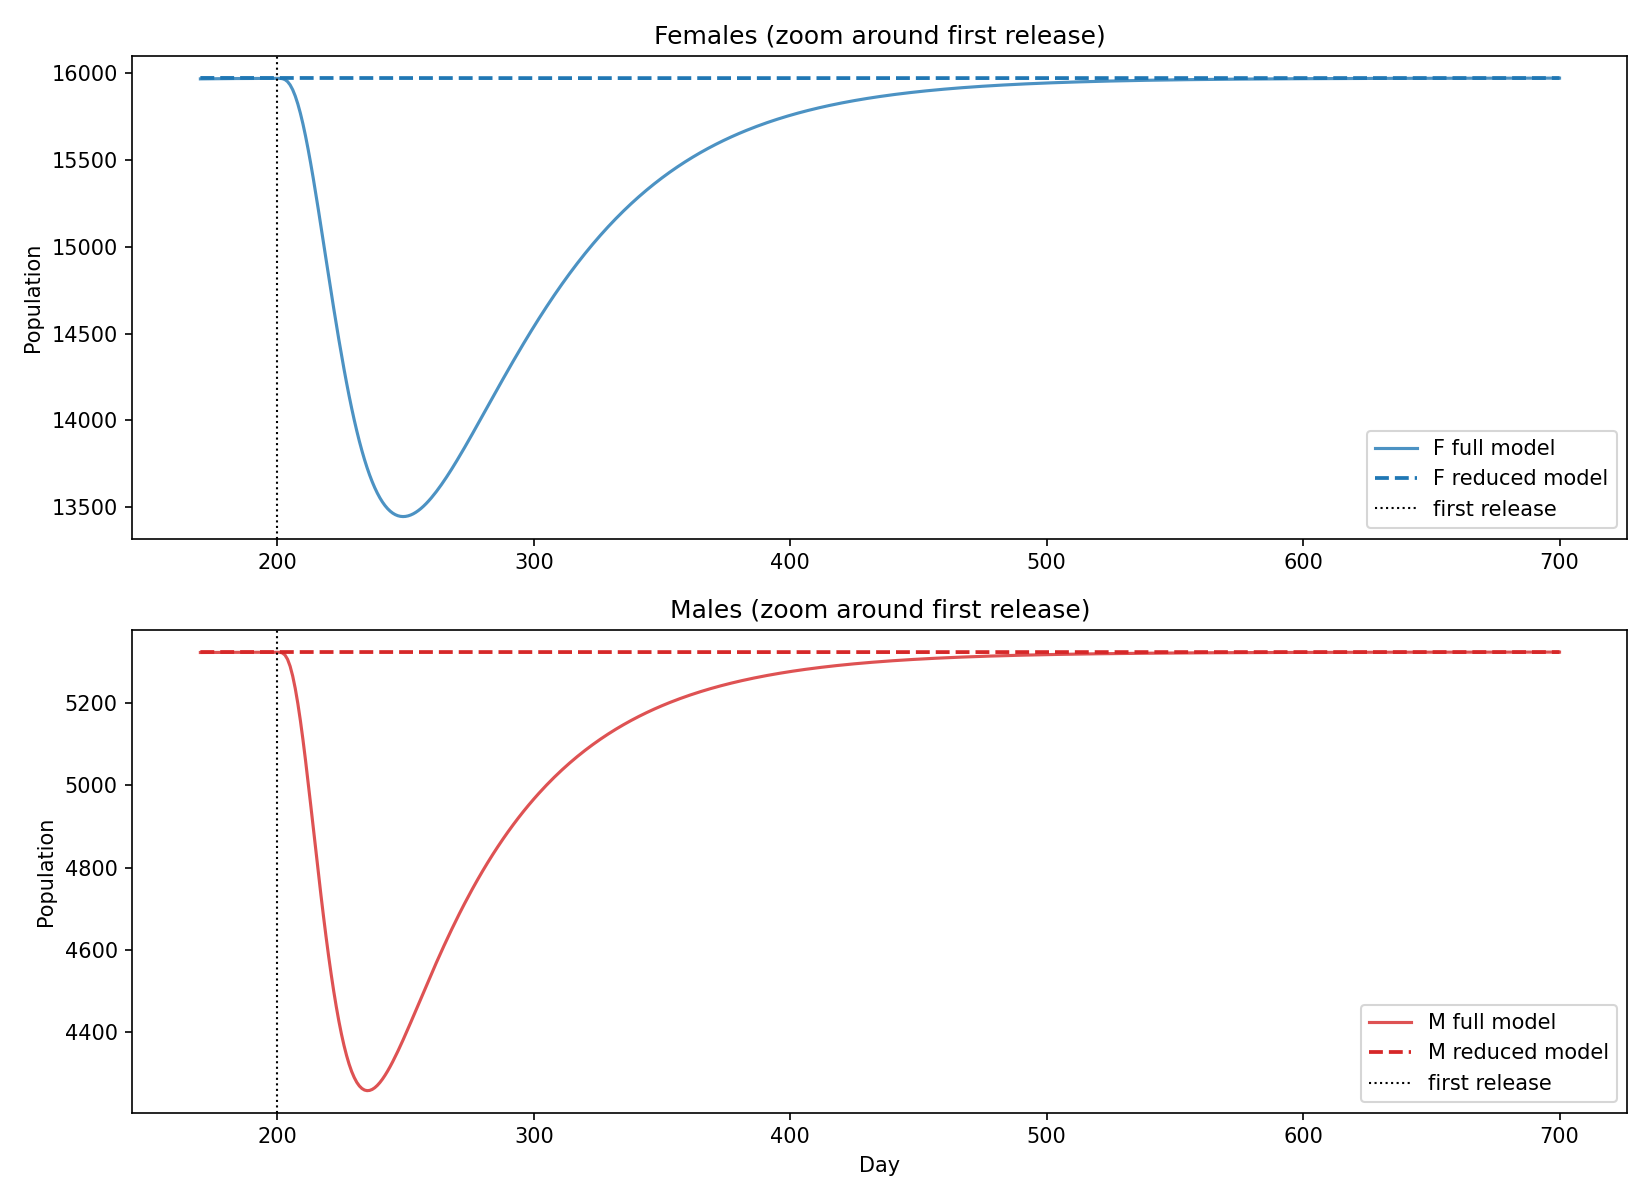
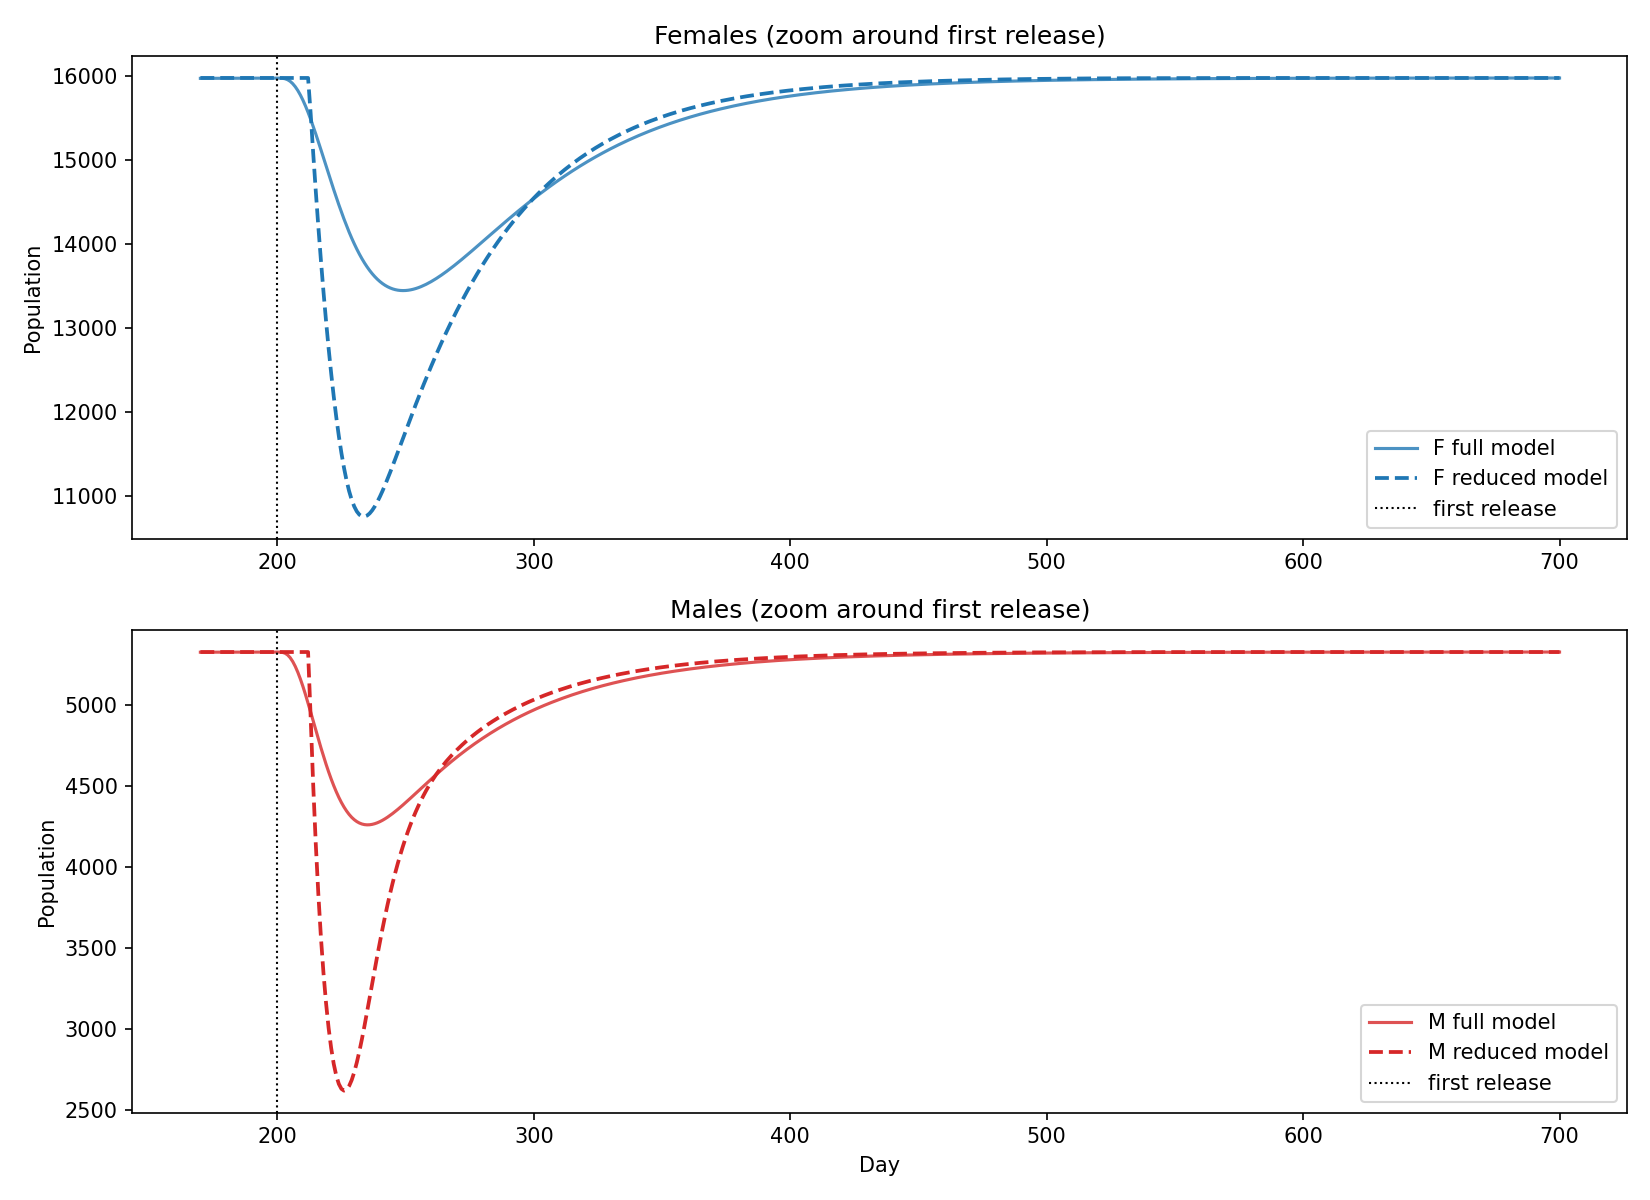
Works now

diff --git a/mosquisim/models.py b/mosquisim/models.py
@@ -125,7 +125,7 @@ def pre_release_adult_input(t, transition_time, initial_state, params):
 def det_model_7(t, y, birth, n_egg, deltaA, death_egg, tel, tlp, transi,
                 death_L, death_P, c, mu,
                 t_data, precip_data, H,
-                release_times, rho,          # ← release schedule
+                release_times, rho,          # release schedule
                 type=1, Sterile = 0):
 
     E, L, P, F, Ff, Fs, M = y
@@ -210,13 +210,17 @@ def det_model_2(t, y, birth, n_egg, deltaA, death_egg, tel, tlp, transi_mod,
                 reltype=1, Sterile = 0):
 
     F, M = y
+    F = max(F, 0.0)   #  guard against small negative drift from LSODA
+    M = max(M, 0.0)
+    print(t)
 
+    # ── Ms ────────────────────────────────────────────────────────
     if Sterile == 1:
         Ms = rho if np.any(release_times) and t >= release_times[0] else 0.0
     else:
-        Ms = Ms_fun(t, release_times, rho, deltaA)   # pure function call
+        Ms = Ms_fun(t, release_times, rho, deltaA)
 
-
+    # ── Competition ───────────────────────────────────────────────
     if reltype == 1:
         precip = np.interp(t, t_data, precip_data)
         comp = competition1(1/c, 1/(c * 50), precip)
@@ -226,56 +230,78 @@ def det_model_2(t, y, birth, n_egg, deltaA, death_egg, tel, tlp, transi_mod,
     else:
         comp = c
 
-    probaM = M / (M + Ms) if M > 0 else 0.0
-    
+    # ── Mating ────────────────────────────────────────────────────
+    if M > 0:
+        probaM  = M  / (M + Ms)
+    else:
+        probaM = 0.0
+
     matf   = allee(M, Ms) * probaM
 
-    birth_mod  = birth * tel * n_egg / (tel + death_egg)
-    #birth_rate = (-(death_L + tlp) + np.sqrt(
-    #                (death_L + tlp)**2 + matf * F * 4 * comp * birth_mod / (allee(M, Ms) + deltaA)
-    #             )) / (2 * comp)
+    # ── Birth rate (quasi-steady-state larvae) ────────────────────
+    birth_mod = birth * tel * n_egg / (tel + death_egg)
 
-    birth_rate = (-(death_L + tlp) + np.sqrt(
-                    (death_L + tlp)**2 + matf * F * 4 * comp * birth_mod / (1 + deltaA)
-                 )) / (2 * comp)
+    discriminant = (death_L + tlp)**2 + matf * F * 4 * comp * birth_mod / (1 + deltaA)
+    discriminant = max(discriminant, 0.0)   # numerical safety
+
+    birth_rate = (-(death_L + tlp) + np.sqrt(discriminant)) / (2 * comp)
+
     shared = birth_rate * transi_mod / 2
 
-    dF = shared  - deltaA * F
+    dF = shared - deltaA * F
     dM = shared - deltaA * 3 * M
 
     return np.array([dF, dM])
 
-
 def sim_2(pop_init, days, birth, deltaA, deltaE, transi_el, transi_lp, transi_mod,
           death_L, c,
-          release_times = None, rho=0.0,
-          n_egg=64, precip_data = precip_data, H = hum_data, reltype = 1, Sterile = 0):
-    """
-    pop_init               : length 2 (F, M) or 3 (Ms0 ignored — use releases)
-    pre_release_pop_init_7d: optional 7D initial state used to bootstrap the
-                             reduced model at the first release time
-    """
+          release_times=None, rho=0.0,
+          n_egg=64, precip_data=precip_data, H=hum_data, reltype=1, Sterile=0):
+
     if release_times is None:
         release_times = np.array([])
         rho = 0.0
-        print("No releases")
     else:
         release_times = np.asarray(release_times, dtype=float)
+        release_times = release_times[(release_times > days[0]) & (release_times < days[-1])]
 
     y0 = np.asarray(pop_init[:2], dtype=float)
 
-    sol = solve_ivp(
-        lambda t, y: det_model_2(
-            t, y, birth, n_egg, deltaA, deltaE,
-            transi_el, transi_lp, transi_mod,
-            death_L, c,
-            time_data, precip_data, H,
-            release_times, rho, reltype, Sterile
-        ),
-        [days[0], days[-1]], y0,
-        t_eval=days, method='LSODA', vectorized=False
-    )
+    # Split integration at each release time so LSODA cannot jump over them
+    breakpoints = np.concatenate([[days[0]], release_times, [days[-1]]])
 
-    # Reattach Ms for drop-in compatibility with 3-row outputs
-    Ms_out = Ms_fun(days, release_times, rho, deltaA)
-    return np.vstack([sol.y, Ms_out])
+    t_all, y_all = [], []
+    for k in range(len(breakpoints) - 1):
+        t_start = breakpoints[k]
+        t_end   = breakpoints[k + 1]
+
+        # ← only change: strict > for all segments except the first
+        if k == 0:
+            t_seg = days[(days >= t_start) & (days <= t_end)]
+        else:
+            t_seg = days[(days > t_start) & (days <= t_end)]
+
+        if len(t_seg) == 0:
+            continue
+
+        sol = solve_ivp(
+            lambda t, y: det_model_2(
+                t, y, birth, n_egg, deltaA, deltaE,
+                transi_el, transi_lp, transi_mod,
+                death_L, c,
+                time_data, precip_data, H,
+                release_times, rho, reltype, Sterile
+            ),
+            [t_start, t_end], y0,
+            t_eval=t_seg, method='LSODA', vectorized=False
+        )
+
+        t_all.append(sol.t)
+        y_all.append(sol.y)
+        y0 = sol.y[:, -1].copy()
+
+    t_out = np.concatenate(t_all)
+    y_out = np.hstack(y_all)
+
+    Ms_out = Ms_fun(t_out, release_times, rho, deltaA)
+    return np.vstack([y_out, Ms_out])

diff --git a/mosquisim/main.py b/mosquisim/main.py
@@ -25,7 +25,7 @@ rho = 50000
 p = params.params   # shorthand
 delay = 1/(p["transi_pa"]+ p["death_P"]) + 1/(p["transi_lp"] + p["death_L"]) + 1/(p["transi_el"] + p["deltaE"])
 delay = 4*( 1/(p["transi_pa"]) + 1/(p["transi_lp"]) * (init_8[0] + init_8[1])/(init_8[0] + init_8[1] + init_8[2]) + 1/(p["transi_el"])* (init_8[0])/(init_8[0] + init_8[1] + init_8[2]))
-delay = 100
+delay = 1/(p["transi_pa"]) + 1/(p["transi_lp"] ) + 1/(p["transi_el"])
 
 if release_times is not None:
     release_delay = release_times[0] + delay
@@ -51,7 +51,7 @@ sol3_new = sim_2(
     transi_el=p["transi_el"], transi_lp=p["transi_lp"], transi_mod=p["transi_mod"],
     death_L=p["death_L"],
     c=p["c"], n_egg=p["n_egg"],
-    release_times=release_times, rho=rho,
+    release_times=release_delay, rho=rho,
     precip_data=precip_data, H=hum_data,
     reltype = 3, Sterile = 0
 )
